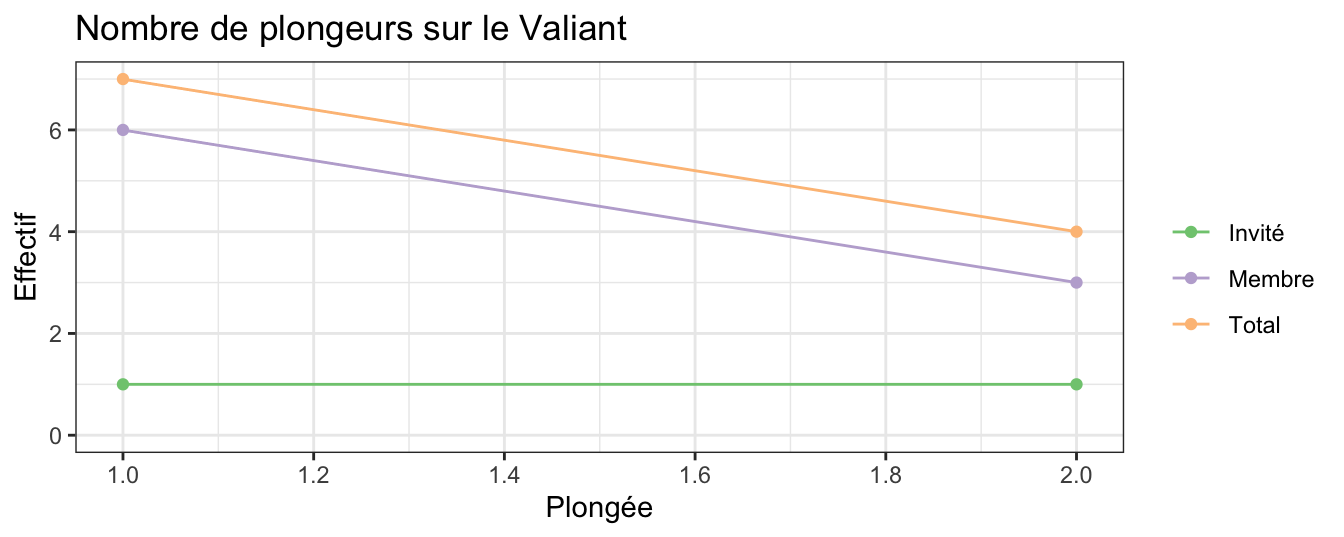
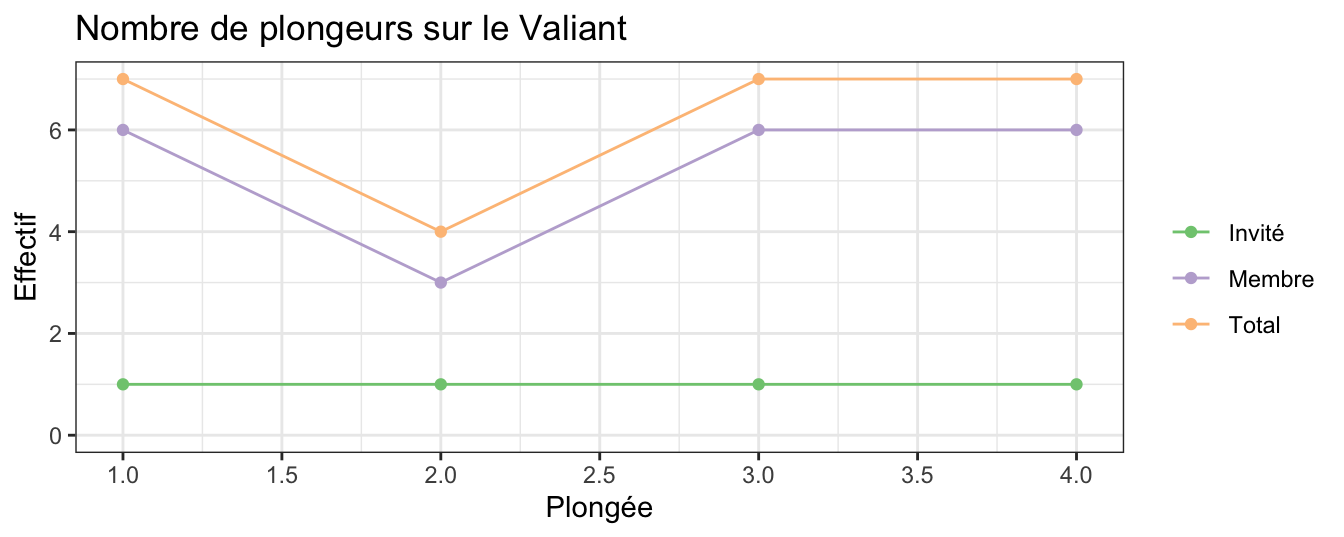
Le lundi à Camaret

diff --git a/docs/Camaret2026.html b/docs/Camaret2026.html
@@ -361,7 +361,7 @@ ul.task-list li input[type="checkbox"] {
     <div>
     <div class="quarto-title-meta-heading">Dernière Mise à jour</div>
     <div class="quarto-title-meta-contents">
-      <p class="date">dimanche 19 juillet 2026</p>
+      <p class="date">lundi 20 juillet 2026</p>
     </div>
   </div>
   
@@ -420,30 +420,56 @@ Table&nbsp;1: Récapitulatif des plongées effectuées
 <td style="text-align: right;">7</td>
 </tr>
 <tr class="even">
-<td style="text-align: left; border-bottom: 1px solid;">19 07 2026</td>
+<td style="text-align: left;">19 07 2026</td>
+<td style="text-align: left;">pm</td>
+<td style="text-align: left;">Swansea Vale</td>
+<td style="text-align: right;">1</td>
+<td style="text-align: right;">0</td>
+<td style="text-align: right;">1</td>
+<td style="text-align: right;">0</td>
+<td style="text-align: right;">1</td>
+<td style="text-align: right;">0</td>
+<td style="text-align: right;">1</td>
+<td style="text-align: right;">4</td>
+</tr>
+<tr class="odd">
+<td style="text-align: left;">20 07 2026</td>
+<td style="text-align: left;">am</td>
+<td style="text-align: left;">Le Kenilworth</td>
+<td style="text-align: right;">1</td>
+<td style="text-align: right;">1</td>
+<td style="text-align: right;">1</td>
+<td style="text-align: right;">1</td>
+<td style="text-align: right;">1</td>
+<td style="text-align: right;">1</td>
+<td style="text-align: right;">1</td>
+<td style="text-align: right;">7</td>
+</tr>
+<tr class="even">
+<td style="text-align: left; border-bottom: 1px solid;">20 07 2026</td>
 <td style="text-align: left; border-bottom: 1px solid;">pm</td>
-<td style="text-align: left; border-bottom: 1px solid;">Swansea Vale</td>
+<td style="text-align: left; border-bottom: 1px solid;">Le Forest Castle</td>
 <td style="text-align: right; border-bottom: 1px solid;">1</td>
-<td style="text-align: right; border-bottom: 1px solid;">0</td>
 <td style="text-align: right; border-bottom: 1px solid;">1</td>
-<td style="text-align: right; border-bottom: 1px solid;">0</td>
 <td style="text-align: right; border-bottom: 1px solid;">1</td>
-<td style="text-align: right; border-bottom: 1px solid;">0</td>
 <td style="text-align: right; border-bottom: 1px solid;">1</td>
-<td style="text-align: right; border-bottom: 1px solid;">4</td>
+<td style="text-align: right; border-bottom: 1px solid;">1</td>
+<td style="text-align: right; border-bottom: 1px solid;">1</td>
+<td style="text-align: right; border-bottom: 1px solid;">1</td>
+<td style="text-align: right; border-bottom: 1px solid;">7</td>
 </tr>
 <tr class="odd">
 <td style="text-align: left; font-weight: bold;">Total</td>
 <td style="text-align: left; font-weight: bold;">-</td>
 <td style="text-align: left; font-weight: bold;">-</td>
-<td style="text-align: right; font-weight: bold;">2</td>
-<td style="text-align: right; font-weight: bold;">1</td>
-<td style="text-align: right; font-weight: bold;">2</td>
-<td style="text-align: right; font-weight: bold;">1</td>
-<td style="text-align: right; font-weight: bold;">2</td>
-<td style="text-align: right; font-weight: bold;">1</td>
-<td style="text-align: right; font-weight: bold;">2</td>
-<td style="text-align: right; font-weight: bold;">11</td>
+<td style="text-align: right; font-weight: bold;">4</td>
+<td style="text-align: right; font-weight: bold;">3</td>
+<td style="text-align: right; font-weight: bold;">4</td>
+<td style="text-align: right; font-weight: bold;">3</td>
+<td style="text-align: right; font-weight: bold;">4</td>
+<td style="text-align: right; font-weight: bold;">3</td>
+<td style="text-align: right; font-weight: bold;">4</td>
+<td style="text-align: right; font-weight: bold;">25</td>
 </tr>
 </tbody>
 </table>
@@ -454,7 +480,7 @@ Table&nbsp;1: Récapitulatif des plongées effectuées
 </figure>
 </div>
 </div>
-<p>Au total, 11 plongées ont été effectuées.</p>
+<p>Au total, 25 plongées ont été effectuées.</p>
 </section>
 <section id="les-dépenses-plongée" class="level2">
 <h2 class="anchored" data-anchor-id="les-dépenses-plongée">Les dépenses “plongée”</h2>
@@ -556,8 +582,8 @@ Table&nbsp;2: Dépenses engagées par les membres de l’AP
 </section>
 <section id="coût-des-plongées" class="level2">
 <h2 class="anchored" data-anchor-id="coût-des-plongées">Coût des plongées</h2>
-<p>Le coût d’une plongée est calculé en divisant la somme des dépenses effectuées durant le séjour (ici, 658.2€) par le nombre total de plongées effectuées durant le séjour (ici, 11 plongées). Pour cette sortie, le coût d’une plongée pour les membres de l’AP est de 59.84€. Toutefois, afin d’anticiper sur la révision annuelle du moteur, nous avons décidé de majorer chaque plongée de 3€. Ainsi, <strong>pour les membres, la plongée coûte 62.84€</strong>.</p>
-<p>Pour les invités, le prix de la plongée est fixé à 59.84€ si la plongée des membres coûte moins cher. Sinon, tout le monde paie le même prix. La même majoration de 3€ est appliquée pour les invités, soit un prix de 62.84€ par plongée.</p>
+<p>Le coût d’une plongée est calculé en divisant la somme des dépenses effectuées durant le séjour (ici, 658.2€) par le nombre total de plongées effectuées durant le séjour (ici, 25 plongées). Pour cette sortie, le coût d’une plongée pour les membres de l’AP est de 26.33€. Toutefois, afin d’anticiper sur la révision annuelle du moteur, nous avons décidé de majorer chaque plongée de 3€. Ainsi, <strong>pour les membres, la plongée coûte 29.33€</strong>.</p>
+<p>Pour les invités, le prix de la plongée est fixé à 26.33€ si la plongée des membres coûte moins cher. Sinon, tout le monde paie le même prix. La même majoration de 3€ est appliquée pour les invités, soit un prix de 29.33€ par plongée.</p>
 <p>Au total, pour les plongées uniquement, chaque plongeur doit les sommes suivantes à l’AP :</p>
 <div class="cell">
 <div id="tbl-cout_plongee" class="cell quarto-float quarto-figure quarto-figure-center anchored">
@@ -581,13 +607,13 @@ Table&nbsp;3: Montants dûs pour la plongée
 </thead>
 <tbody>
 <tr class="odd">
-<td style="text-align: right;">125.68€</td>
-<td style="text-align: right;">62.84€</td>
-<td style="text-align: right;">125.68€</td>
-<td style="text-align: right;">62.84€</td>
-<td style="text-align: right;">125.68€</td>
-<td style="text-align: right;">62.84€</td>
-<td style="text-align: right;">125.68€</td>
+<td style="text-align: right;">117.32€</td>
+<td style="text-align: right;">87.99€</td>
+<td style="text-align: right;">117.32€</td>
+<td style="text-align: right;">87.99€</td>
+<td style="text-align: right;">117.32€</td>
+<td style="text-align: right;">87.99€</td>
+<td style="text-align: right;">117.32€</td>
 </tr>
 </tbody>
 </table>
@@ -667,12 +693,12 @@ Table&nbsp;4: Dépenses hors plongées engagées par les participants à la sort
 <tr class="odd">
 <td style="text-align: right;">Pierre</td>
 <td style="text-align: right;">400.00€</td>
+<td style="text-align: right;">46.89€</td>
 <td style="text-align: right;">0.00€</td>
-<td style="text-align: right;">0.00€</td>
 <td style="text-align: right;">0€</td>
 <td style="text-align: right;">0€</td>
 <td style="text-align: right;">0€</td>
-<td style="text-align: right;">400.00€</td>
+<td style="text-align: right;">446.89€</td>
 </tr>
 <tr class="even">
 <td style="text-align: right;">Thomas</td>
@@ -697,12 +723,12 @@ Table&nbsp;4: Dépenses hors plongées engagées par les participants à la sort
 <tr class="even">
 <td style="text-align: right; font-weight: bold;">Total</td>
 <td style="text-align: right; font-weight: bold;">1,640.80€</td>
-<td style="text-align: right; font-weight: bold;">390.61€</td>
+<td style="text-align: right; font-weight: bold;">437.50€</td>
 <td style="text-align: right; font-weight: bold;">455.72€</td>
 <td style="text-align: right; font-weight: bold;">0€</td>
 <td style="text-align: right; font-weight: bold;">0€</td>
 <td style="text-align: right; font-weight: bold;">0€</td>
-<td style="text-align: right; font-weight: bold;">2,487.13€</td>
+<td style="text-align: right; font-weight: bold;">2,534.02€</td>
 </tr>
 </tbody>
 </table>
@@ -785,7 +811,7 @@ Table&nbsp;6: Coûts unitaires par personne
 <tbody>
 <tr class="odd">
 <td style="text-align: right;">29.30€</td>
-<td style="text-align: right;">2.33€</td>
+<td style="text-align: right;">2.60€</td>
 <td style="text-align: right;">56.96€</td>
 </tr>
 </tbody>
@@ -825,13 +851,13 @@ Table&nbsp;7: Bilan des coûts par plongeur et par poste
 <tbody>
 <tr class="odd">
 <td style="text-align: right;">Plongée</td>
-<td style="text-align: right;">125.68€</td>
-<td style="text-align: right;">62.84€</td>
-<td style="text-align: right;">125.68€</td>
-<td style="text-align: right;">62.84€</td>
-<td style="text-align: right;">125.68€</td>
-<td style="text-align: right;">62.84€</td>
-<td style="text-align: right;">125.68€</td>
+<td style="text-align: right;">117.32€</td>
+<td style="text-align: right;">87.99€</td>
+<td style="text-align: right;">117.32€</td>
+<td style="text-align: right;">87.99€</td>
+<td style="text-align: right;">117.32€</td>
+<td style="text-align: right;">87.99€</td>
+<td style="text-align: right;">117.32€</td>
 </tr>
 <tr class="even">
 <td style="text-align: right;">Logement</td>
@@ -845,13 +871,13 @@ Table&nbsp;7: Bilan des coûts par plongeur et par poste
 </tr>
 <tr class="odd">
 <td style="text-align: right;">Nourriture</td>
-<td style="text-align: right;">48.83€</td>
-<td style="text-align: right;">48.83€</td>
-<td style="text-align: right;">48.83€</td>
-<td style="text-align: right;">48.83€</td>
-<td style="text-align: right;">97.65€</td>
-<td style="text-align: right;">48.83€</td>
-<td style="text-align: right;">48.83€</td>
+<td style="text-align: right;">54.69€</td>
+<td style="text-align: right;">54.69€</td>
+<td style="text-align: right;">54.69€</td>
+<td style="text-align: right;">54.69€</td>
+<td style="text-align: right;">109.38€</td>
+<td style="text-align: right;">54.69€</td>
+<td style="text-align: right;">54.69€</td>
 </tr>
 <tr class="even">
 <td style="text-align: right; border-bottom: 1px solid;">Carburant</td>
@@ -865,13 +891,13 @@ Table&nbsp;7: Bilan des coûts par plongeur et par poste
 </tr>
 <tr class="odd">
 <td style="text-align: right; font-weight: bold;">Total</td>
-<td style="text-align: right; font-weight: bold;">436.57€</td>
-<td style="text-align: right; font-weight: bold;">373.73€</td>
-<td style="text-align: right; font-weight: bold;">436.57€</td>
-<td style="text-align: right; font-weight: bold;">373.73€</td>
-<td style="text-align: right; font-weight: bold;">747.46€</td>
-<td style="text-align: right; font-weight: bold;">373.73€</td>
-<td style="text-align: right; font-weight: bold;">436.57€</td>
+<td style="text-align: right; font-weight: bold;">434.07€</td>
+<td style="text-align: right; font-weight: bold;">404.74€</td>
+<td style="text-align: right; font-weight: bold;">434.07€</td>
+<td style="text-align: right; font-weight: bold;">404.74€</td>
+<td style="text-align: right; font-weight: bold;">750.82€</td>
+<td style="text-align: right; font-weight: bold;">404.74€</td>
+<td style="text-align: right; font-weight: bold;">434.07€</td>
 </tr>
 </tbody>
 </table>
@@ -897,37 +923,37 @@ Table&nbsp;7: Bilan des coûts par plongeur et par poste
 <tr class="odd">
 <td style="text-align: right;">Pierre</td>
 <td style="text-align: right;">rembourse à l'AP</td>
-<td style="text-align: right;">236.46€</td>
+<td style="text-align: right;">192.94€</td>
 </tr>
 <tr class="even">
+<td style="text-align: right;">Thomas</td>
+<td style="text-align: right;">rembourse à l'AP</td>
+<td style="text-align: right;">3.80€</td>
+</tr>
+<tr class="odd">
 <td style="text-align: right;">Yannick</td>
 <td style="text-align: right;">rembourse à l'AP</td>
-<td style="text-align: right;">436.57€</td>
+<td style="text-align: right;">434.07€</td>
 </tr>
-<tr class="odd">
+<tr class="even">
 <td style="text-align: right;">Baptiste</td>
 <td style="text-align: right;">se fait rembourser par l'AP</td>
-<td style="text-align: right;">58.61€</td>
+<td style="text-align: right;">61.11€</td>
 </tr>
-<tr class="even">
+<tr class="odd">
 <td style="text-align: right;">Benoît</td>
 <td style="text-align: right;">se fait rembourser par l'AP</td>
-<td style="text-align: right;">230.62€</td>
-</tr>
-<tr class="odd">
-<td style="text-align: right;">Carole</td>
-<td style="text-align: right;">se fait rembourser par l'AP</td>
-<td style="text-align: right;">196.13€</td>
+<td style="text-align: right;">199.61€</td>
 </tr>
 <tr class="even">
-<td style="text-align: right;">Jean-Claude</td>
+<td style="text-align: right;">Carole</td>
 <td style="text-align: right;">se fait rembourser par l'AP</td>
-<td style="text-align: right;">127.43€</td>
+<td style="text-align: right;">165.12€</td>
 </tr>
 <tr class="odd">
-<td style="text-align: right;">Thomas</td>
+<td style="text-align: right;">Jean-Claude</td>
 <td style="text-align: right;">se fait rembourser par l'AP</td>
-<td style="text-align: right;">27.21€</td>
+<td style="text-align: right;">129.93€</td>
 </tr>
 </tbody>
 </table>
@@ -938,7 +964,7 @@ Table&nbsp;7: Bilan des coûts par plongeur et par poste
 </section>
 <section id="bénéfices-essence-et-heures" class="level2">
 <h2 class="anchored" data-anchor-id="bénéfices-essence-et-heures">Bénéfices, essence et heures</h2>
-<p>La majoration de 3€ de chaque plongée ainsi que les plongées des invités (si la plongée des membres coûte moins de 26€) permettent de faire des (petits) bénéfices. Ils s’élèvent ici à <strong>33.04€</strong>.</p>
+<p>La majoration de 3€ de chaque plongée ainsi que les plongées des invités (si la plongée des membres coûte moins de 26€) permettent de faire des (petits) bénéfices. Ils s’élèvent ici à <strong>75.05€</strong>.</p>
 <p>Le moteur a tourné 16.7 heures et 300 litres de sans plomb ont été mis dans le réservoir. D’après la console, 237.2 litres ont été consommés soit une consommation moyenne de 14.2 litres à l’heure. Il devrait donc rester environ 62.8 litres dans le réservoir. Thomas en a sorti 55 litres. L’erreur d’estimation de consommation est donc très faible : 3.3%.</p>
 <p>Pour finir, nous avons parcouru 116.1 milles nautiques. Ça veut dire que nous consommons en moyenne 2.04 litres par mille, soit 1.1 litres au kilomètre, soit la bagatelle de 110 litres au 100 kilomètres. La plongée est un sport écologique !</p>
 <!-- Nous avons commencé à nettoyer les boudins. Il reste la plus grosse part du boulot : le savon spécial est dans la console et le balais brosse dans le Ducato : avis aux amateurs ! -->
@@ -951,6 +977,7 @@ Table&nbsp;7: Bilan des coûts par plongeur et par poste
 <section id="journal-de-bord" class="level2">
 <h2 class="anchored" data-anchor-id="journal-de-bord">Journal de bord</h2>
 <p><strong>Dimanche 19 juillet</strong>. Nous avons attaqué la semaine par le Kléber, le classique de Camaret. C’est toujours aussi gros, mais ça s’affaisse gentiment. Et c’était très sombre, en raison d’un gros tapis d’algues brunes sur toute une partie de l’épave. Les homards et langoustes sont nombreux, mais personne n’était très enthousiaste en raison de l’ambiance générale que nous avons connu bien plus belle sur cette épave. Baptiste, qui était de sécu surface avec Calude a gagné le concours de bulles : après immersion, il a dû remonter sur le bateau pour régler un problème de fuite sur son détendeur oxy. Il a aussi des microbulles partout (détendeurs, manos, injecteurs…) : grosse commande de swivels en perspective. Les nettoyages au vinaigre blanc de l’hiver ont été très efficaces ! En remettant son recycleur sur le dos, il s’est à moitié arraché l’épaule gauche : petite pensée pour Nath en ce jour d’anniversaire ! Il a finalement pu se remettre à l’eau. Calude a poireauté 15 minutes en surface en claquant des dents. Il était bleu en sortant de l’eau une heure plus tard. On avait prévu la glacière et un deuxième bi pour Carole, ce qui nous a évité de rentrer au port à midi. Et c’est tant mieux car Calude et Baptiste sont sortis de l’eau à 12h30. Nous avons donc mangé au soleil, en remplissant tranquillement nos combis étanches de transpiration. Environ une heure avant l’étale, Carole, Thomas et moi avons basculé pour assurer le mouillage sur le Kenil Worth. Très vite à la descente, nous nous sommes rendus compte que le courant allait être très fort. Carole est rapidement remontée, mais le plomb, coincé à 40m, nous a obligés à descendre. La lutte fut âpre, mais nous y sommes parvenus à la force des bras au bout de plus de 10 minutes de descente. Arrivé au fond, l’ambiance de sable blanc et les langoustes faisaient envie, mais comme nous sommes très raisonnables, on a simplement renvoyé le plomb avant de remonter. Sur la bateau, on a enfin sorti la carte SHOM (bonne idée de faire ça après coup…) pour constater que dans le coin, il est difficile (impossible ?) de plonger à l’étale de basse mer en période de vives eaux (or, nous sommes encore en vives eaux jusqu’à demain). Pour nos 4 compères, nous nous sommes donc rabattus sur le Swansea, en prenant soin de prévenir “Brest approche” à la VHF (canal 16, puis bascule sur canal 8, 2 fois 4). Le Swansea relevant du secteur “Saint Matthieu”, on a contacté Saint Matthieu sur le canal 10, unité zéro. Moralité : ne pas s’emmerder à contacter qui que ce soit quand on plonge sur le Swansea : tout le monde s’en fout. La plongée était belle, mais avec pas mal de jus au fond également. Même l’arrière de l’épave est écrasé, mais il y a de la vie. De retour au port, sur le parking en épis, un bon coup de vent a fermement ouvert la porte arrière droite du Ducato, qui est venue s’encastrer délicatement dans l’aile arrière gauche d’un gros SUV VW, garé un peu trop près. En avant pour le constat, car ça s’est presque fait sous les yeux des propriétaires. Retour à la location à 19h00 : gonflage, séchage, bricolage, douches… On attaque l’apéro à 21h45, en appelant Nath… Pour ma part, je suis cramoisi !</p>
+<p><strong>Lundi 20 juillet 2026</strong>. Réveil de bonne heure après une bonne nuit de sommeil, suffisamment fraiche pour être réparatrice, en dépit des ronflements de Thomas. Départ à la journée à nouveau. Superbe plongée sur le Kénilworth le matin, et sans aucun jus (étale de PM, coef 69). Très clair, très poissonneux, beaucoup de homards et encore plus de langoustes. Pour moi, nouveau record de nombre de langoustes dans le même champ visuel : 18 d’un coup, entre l’hélice et le safran. Très belle ambiance, tout le monde a beaucoup apprécié. À la sortie de l’eau, on a perdu Calude pendant quelques secondes : il était en surface, CCR déséquipé. On s’approchait de lui pour le sortir de l’eau, quand il a disparu quelques secondes ! Sa stab s’est vidée, il était encore accroché au recycleur par la console (au poignet), il a donc fait une petite apnée le temps de regonfler sa stab… Pique-nique sur le bateau, un peu moins irrespirable que la veille, et parce qu’on s’améliore de jour en jour, on a même eu le temps pour la sieste digestive en plein soleil. Le vent s’est levé assez fort en début d’après-midi. La peur du courant de la veille nous a incité à temporiser avant la mise à l’eau sur le Forest Castle. En fait, pas du tout de jus. Par contre, visi vraiment pas terrible par rapport à la plongée de 2024, et peu de poissons, à part au niveau des blocs moteur/chaudière. Pedro a fini au parachute car un peu paumé sur l’épave, et son bloc de 1 litre était à sec, donc plus d’air dans la stab ni dans la combi étanche. Baptiste et détesté et juré ses grands Dieux qu’il n’y remettra pas les pieds. On verra bien !… De mon cô†é, j’ai promené un bel oursin pendant presque une heure, jusqu’au palier où j’ai croisé Baptiste et Calude qui descendaient. L’ADV de Calude lui fait des misères, donc il a eu du mal à descendre. Il a dû tirer fort sur le bout (qui, à sa décharge, était vraiment très horizontal), nous nous sommes amoureusement entrechoqués, et mon oursin ne s’en est pas remis. Le retour fut pour le moins musclé : clapot plus que naissant et vent dans le nez. Retour au port un peu plus tôt que la veille : gonflage pour les uns, courses pour les autres. Et enfin, apéro à 21h15.</p>
 </section>
 <section id="quelques-graphiques" class="level2">
 <h2 class="anchored" data-anchor-id="quelques-graphiques">Quelques graphiques</h2>